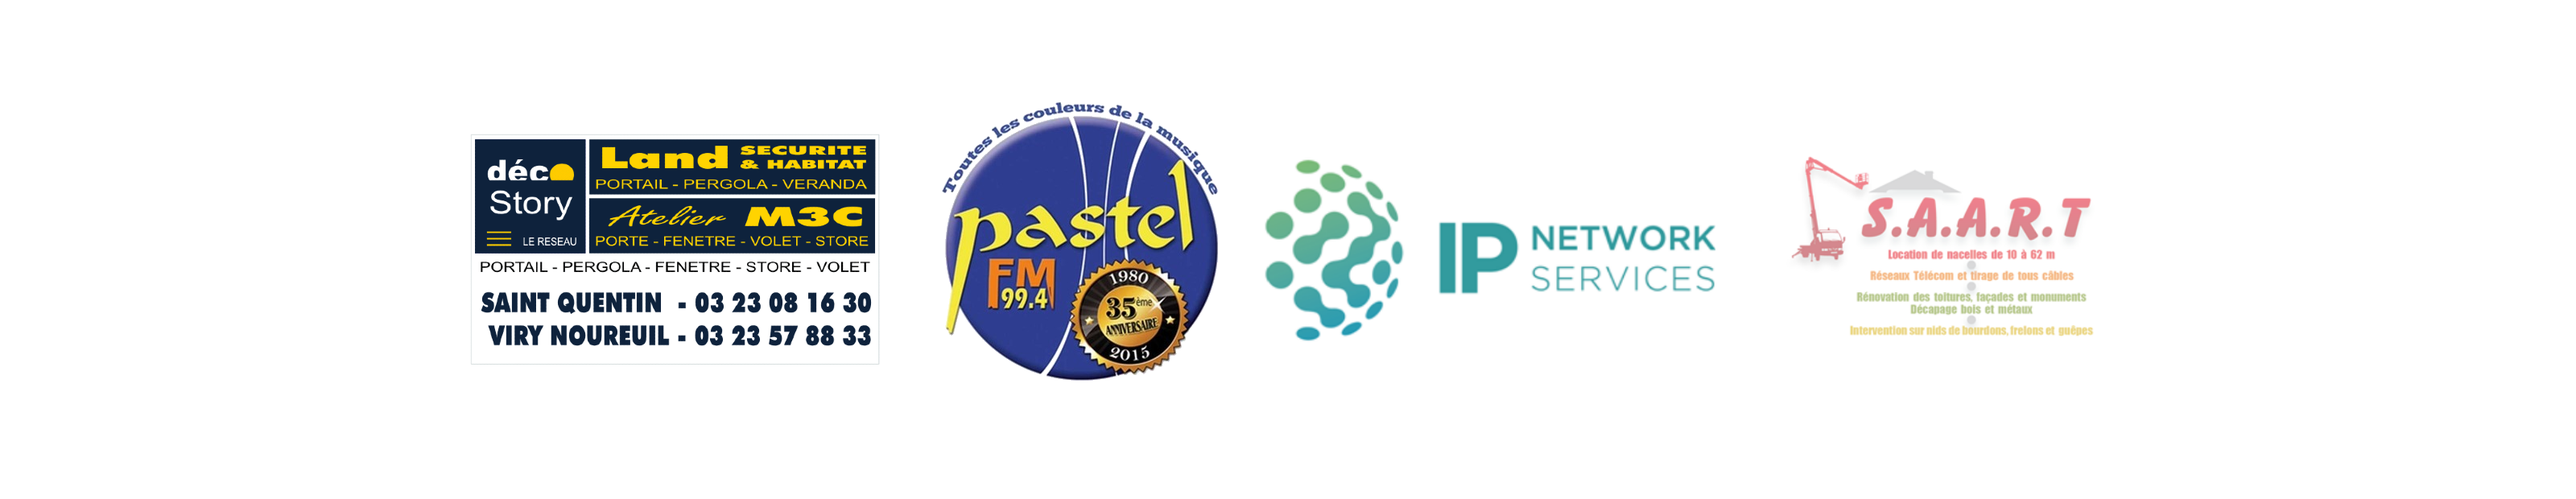
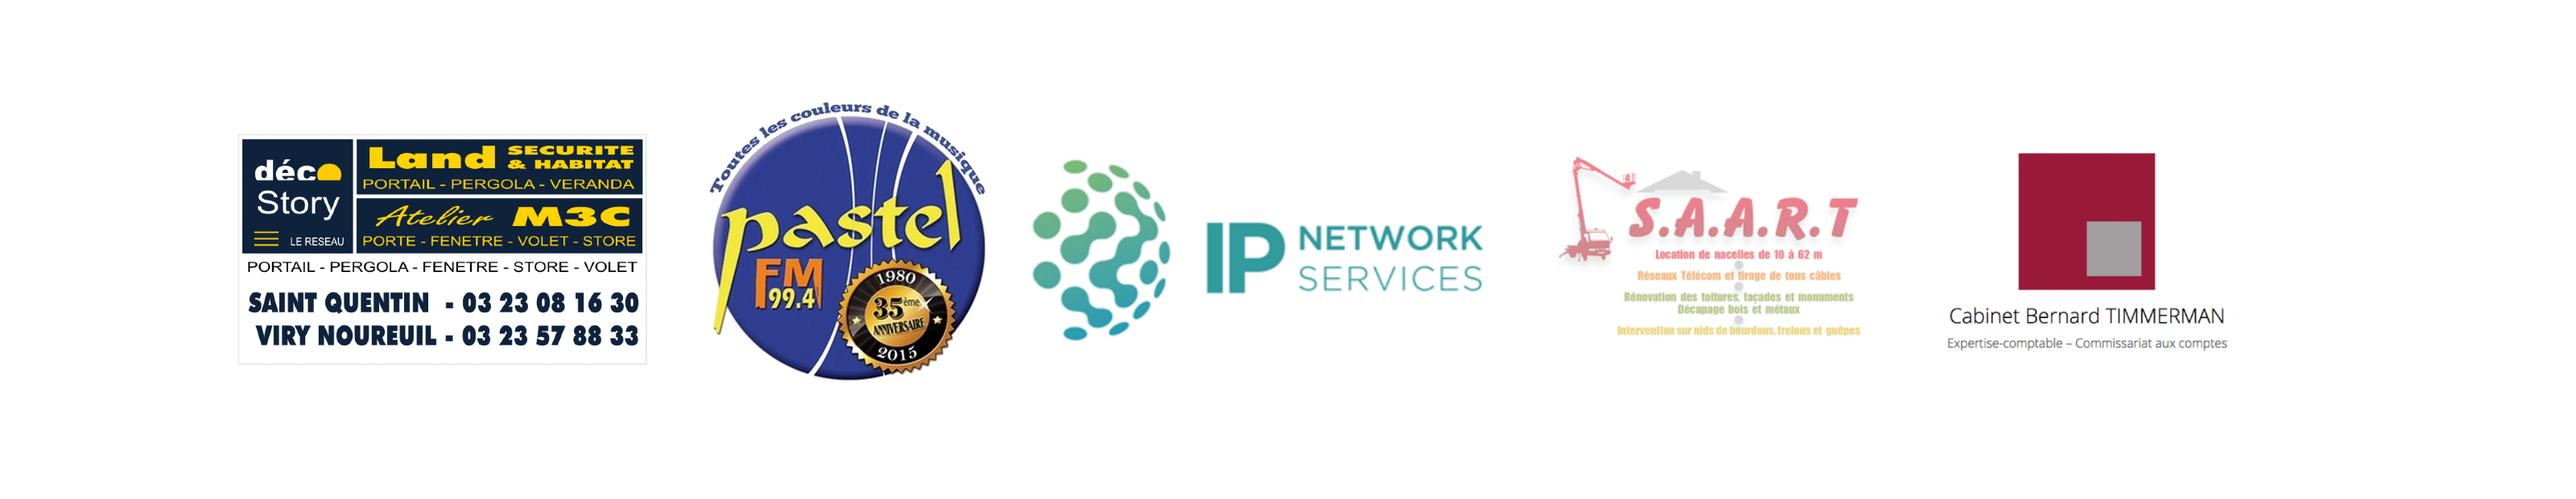
tels

Changed region(s): [[0.0938, 0.1839, 0.875, 0.7661]]

diff --git a/index.html b/index.html
@@ -90,7 +90,7 @@
             </div>
         </div>
     </section>
-    <div class="row justify-content-center mx-4">
+    <div class="row justify-content-center mx-1">
         <div class="col">
             <img src="images/sponsors/ipns.png">
         </div>
